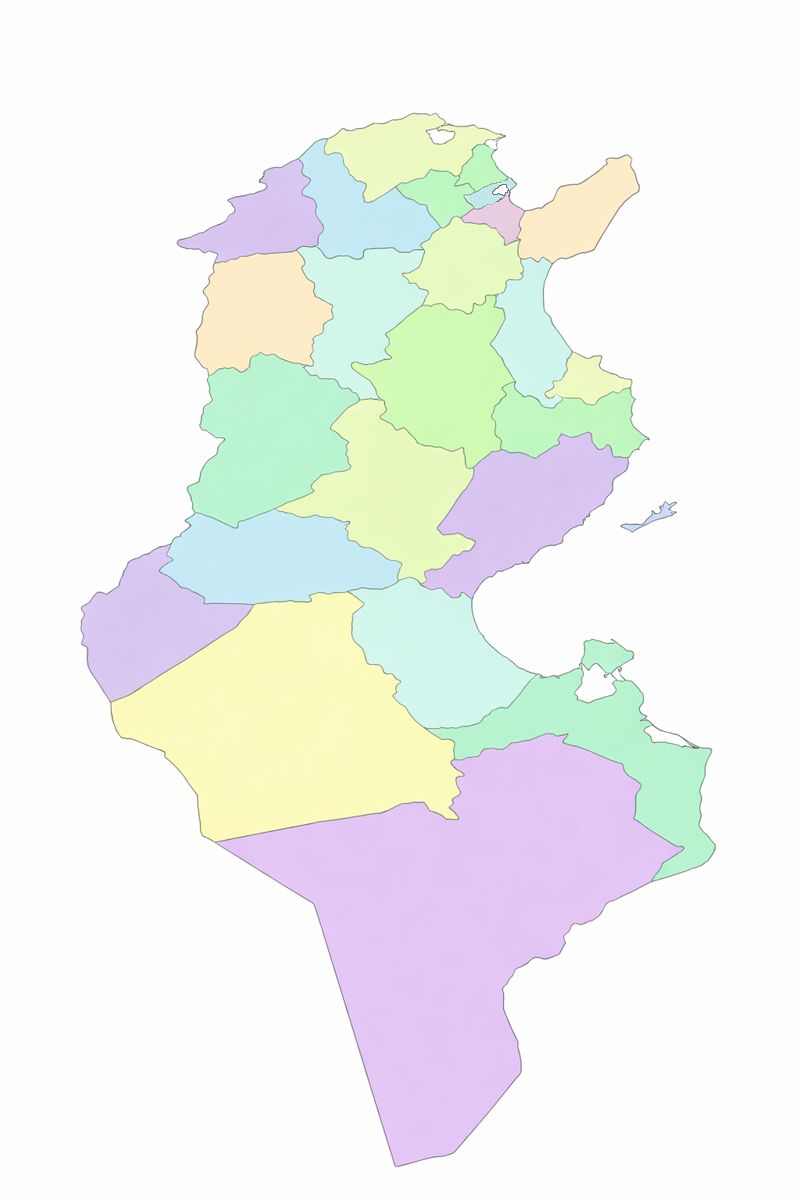
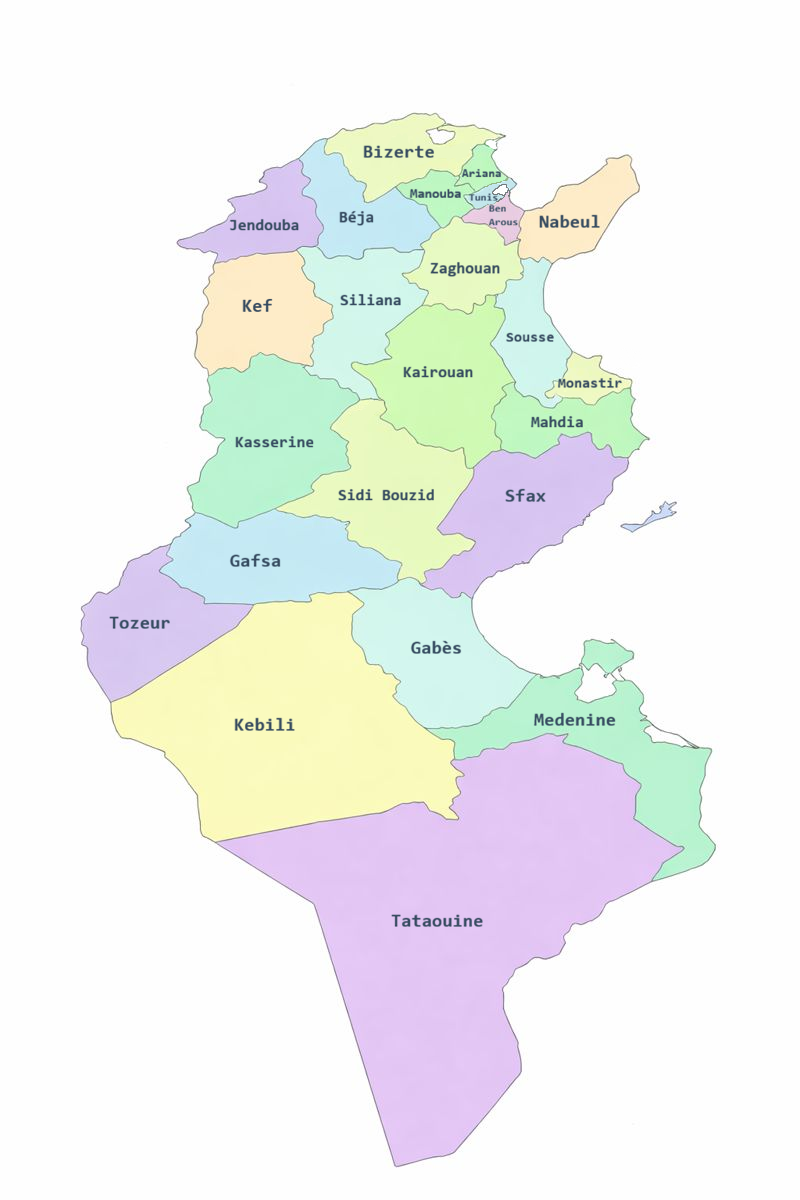
c bon asemi l wileyet

diff --git a/index.html b/index.html
@@ -27,51 +27,51 @@
 
 <!-- 🔴 MAP MUST STAY OUTSIDE -->
 <map name="image-map">
-    <area shape="poly" coords="297,157,308,180,308,197,320,229,312,242,291,249,263,251,213,260,180,244,232,214,227,200,263,190,264,171" href="jendouba.html" alt="Jendouba" title="Jendouba" data-name="Jendouba">
+    <area shape="poly" coords="297,157,308,180,308,197,320,229,312,242,291,249,263,251,213,260,180,244,232,214,227,200,263,190,264,171" href="jendouba.html" alt="Jendouba"  >
 
-    <area shape="poly" coords="433,117,412,113,328,138,350,170,368,199,430,169,457,173,475,146,500,134" href="bizerte.html" alt="Bizerte" title="Bizerte" data-name="Bizerte">
+    <area shape="poly" coords="433,117,412,113,328,138,350,170,368,199,430,169,457,173,475,146,500,134" href="bizerte.html" alt="Bizerte" >
 
-    <area shape="poly" coords="325,138,299,156,325,255,379,249,420,248,442,226,396,188,366,201" href="beja.html" alt="Beja" title="Beja" data-name="Beja">
-    <area shape="poly" coords="194,354,208,372,242,372,259,352,304,365,330,307,312,294,302,268,297,251,216,262" href="kef.html" alt="Kef" title="Kef" data-name="Kef">
+    <area shape="poly" coords="325,138,299,156,325,255,379,249,420,248,442,226,396,188,366,201" href="beja.html" alt="Beja" >
+    <area shape="poly" coords="194,354,208,372,242,372,259,352,304,365,330,307,312,294,302,268,297,251,216,262" href="kef.html" alt="Kef" >
 
-    <area shape="poly" coords="323,473,308,495,231,527,181,506,223,438,203,424,211,373,251,367,259,352,302,369,330,378,354,395,333,426,346,445,348,470" href="kasserine.html" alt="Kasserine" title="Kasserine" data-name="Kasserine">
+    <area shape="poly" coords="323,473,308,495,231,527,181,506,223,438,203,424,211,373,251,367,259,352,302,369,330,378,354,395,333,426,346,445,348,470" href="kasserine.html" alt="Kasserine" >
 
-    <area shape="poly" coords="193,514,172,539,160,567,203,602,308,599,396,583,398,560,347,539,348,523,277,510,232,527" href="gafsa.html" alt="Gafsa" title="Gafsa" data-name="Gafsa">
+    <area shape="poly" coords="193,514,172,539,160,567,203,602,308,599,396,583,398,560,347,539,348,523,277,510,232,527" href="gafsa.html" alt="Gafsa" >
 
-    <area shape="poly" coords="113,591,81,606,86,666,114,704,212,642,257,607,207,604,159,569,166,545,127,562" href="tozeur.html" alt="Tozeur" title="Tozeur" data-name="Tozeur">
+    <area shape="poly" coords="113,591,81,606,86,666,114,704,212,642,257,607,207,604,159,569,166,545,127,562" href="tozeur.html" alt="Tozeur" >
 
-    <area shape="poly" coords="109,708,122,736,162,752,198,795,201,836,219,843,416,799,450,819,453,743,402,710,392,680,349,637,354,594,262,606" href="kebili.html" alt="Kebili" title="Kebili" data-name="Kebili">
-    <area shape="poly" coords="548,735,622,762,635,784,634,815,679,851,649,882,591,919,554,956,503,978,507,1012,525,1075,452,1154,395,1166,312,903,217,843,415,803,455,817,454,789,454,761" href="tataouine.html" alt="Tataouine" title="Tataouine" data-name="Tataouine">
+    <area shape="poly" coords="109,708,122,736,162,752,198,795,201,836,219,843,416,799,450,819,453,743,402,710,392,680,349,637,354,594,262,606" href="kebili.html" alt="Kebili" >
+    <area shape="poly" coords="548,735,622,762,635,784,634,815,679,851,649,882,591,919,554,956,503,978,507,1012,525,1075,452,1154,395,1166,312,903,217,843,415,803,455,817,454,789,454,761" href="tataouine.html" alt="Tataouine" >
 
-    <area shape="poly" coords="709,748,643,693,627,677,631,655,614,640,585,642,565,675,533,678,492,715,435,731,455,761,561,738,620,763,639,784,634,814,681,851,650,883,698,868,717,849,700,826" href="medenine.html" alt="Medenine" title="Medenine" data-name="Medenine">
+    <area shape="poly" coords="709,748,643,693,627,677,631,655,614,640,585,642,565,675,533,678,492,715,435,731,455,761,561,738,620,763,639,784,634,814,681,851,650,883,698,868,717,849,700,826" href="medenine.html" alt="Medenine" >
 
-    <area shape="poly" coords="535,676,492,714,432,729,406,710,389,676,349,636,353,608,355,593,412,577,442,594,470,597,489,645" href="gabes.html" alt="Gabès" title="Gabès" data-name="Gabes">
+    <area shape="poly" coords="535,676,492,714,432,729,406,710,389,676,349,636,353,608,355,593,412,577,442,594,470,597,489,645" href="gabes.html" alt="Gabès" >
 
-    <area shape="poly" coords="588,523,464,598,416,582,473,542,437,531,473,469,494,449,536,458,564,436,585,434,608,449,629,462,627,472,605,499,689,505,634,530" href="sfax.html" alt="Sfax" title="Sfax" data-name="Sfax" >
+    <area shape="poly" coords="588,523,464,598,416,582,473,542,437,531,473,469,494,449,536,458,564,436,585,434,608,449,629,462,627,472,605,499,689,505,634,530" href="sfax.html" alt="Sfax"  >
 
-    <area shape="poly" coords="624,460,647,440,635,421,633,387,591,401,563,397,549,409,507,381,491,415,500,451,536,458,561,436,587,434" href="mahdia.html" alt="Mahdia" title="Mahdia" data-name="Mahdia">
+    <area shape="poly" coords="624,460,647,440,635,421,633,387,591,401,563,397,549,409,507,381,491,415,500,451,536,458,561,436,587,434" href="mahdia.html" alt="Mahdia" >
 
-    <area shape="poly" coords="634,386,607,371,602,357,572,352,545,395,589,403" href="monastir.html" alt="Monastir" title="Monastir" data-name="Monastir">
+    <area shape="poly" coords="634,386,607,371,602,357,572,352,545,395,589,403" href="monastir.html" alt="Monastir" >
 
-    <area shape="poly" coords="562,401,546,392,572,352,543,307,545,280,552,262,520,256,523,276,510,279,494,305,509,318,491,341,516,386,550,409" href="sousse.html" alt="Sousse" title="Sousse"  data-name="Sousse">
+    <area shape="poly" coords="562,401,546,392,572,352,543,307,545,280,552,262,520,256,523,276,510,279,494,305,509,318,491,341,516,386,550,409" href="sousse.html" alt="Sousse" >
 
-    <area shape="poly" coords="461,451,419,445,380,419,382,399,359,400,337,420,349,467,275,509,346,522,349,540,399,563,395,581,420,579,471,543,438,531,472,476" href="sidibouzid.html" alt="Sidi Bouzid" title="Sidi Bouzid" data-name="Sidibouzid">
+    <area shape="poly" coords="461,451,419,445,380,419,382,399,359,400,337,420,349,467,275,509,346,522,349,540,399,563,395,581,420,579,471,543,438,531,472,476" href="sidibouzid.html" alt="Sidi Bouzid" >
 
-    <area shape="poly" coords="471,472,498,449,491,414,513,379,491,341,509,320,492,294,468,313,424,302,385,333,388,361,353,367,380,392,383,419,421,443,463,449" href="kairouan.html" alt="Kairouan" title="Kairouan"    data-name="Kairouan">
+    <area shape="poly" coords="471,472,498,449,491,414,513,379,491,341,509,320,492,294,468,313,424,302,385,333,388,361,353,367,380,392,383,419,421,443,463,449" href="kairouan.html" alt="Kairouan" >
 
-    <area shape="poly" coords="360,399,379,397,356,365,387,358,385,332,428,297,403,276,425,249,364,249,328,260,317,246,297,252,316,293,331,307,320,337,307,369,331,378" href="siliana.html" alt="Siliana" title="Siliana" data-name="Siliana">
+    <area shape="poly" coords="360,399,379,397,356,365,387,358,385,332,428,297,403,276,425,249,364,249,328,260,317,246,297,252,316,293,331,307,320,337,307,369,331,378" href="siliana.html" alt="Siliana" >
 
-    <area shape="poly" coords="431,303,468,315,491,293,499,293,522,271,519,238,504,243,492,226,459,215,441,226,422,247,418,265,403,275" href="zaghouan.html" alt="Zaghouan" title="Zaghouan" data-name="Zaghouan">
+    <area shape="poly" coords="431,303,468,315,491,293,499,293,522,271,519,238,504,243,492,226,459,215,441,226,422,247,418,265,403,275" href="zaghouan.html" alt="Zaghouan" >
 
-    <area shape="poly" coords="507,192,492,203,461,215,485,223,494,229,504,242,518,239,522,227,523,210" href="benarous.html" alt="Ben Arous" title="Ben Arous" data-name="Benarous">
+    <area shape="poly" coords="507,192,492,203,461,215,485,223,494,229,504,242,518,239,522,227,523,210" href="benarous.html" alt="Ben Arous" >
 
     <area shape="poly" coords="473,209,463,197,509,177,516,183,497,202" href="tunis.html" alt="Tunis" title="Tunis" data-name="Tunis">
 
-    <area shape="poly" coords="474,209,440,223,424,209,407,200,396,187,421,177,431,168,448,173,458,175,454,184,467,184,474,190,461,197" href="manouba.html" alt="Manouba" title="Manouba" data-name="Manouba">
+    <area shape="poly" coords="474,209,440,223,424,209,407,200,396,187,421,177,431,168,448,173,458,175,454,184,467,184,474,190,461,197" href="manouba.html" alt="Manouba" >
 
-    <area shape="poly" coords="500,135,473,149,454,184,467,184,474,194,506,177,489,158" href="ariana.html" alt="Ariana" title="Ariana" data-name="Ariana">
+    <area shape="poly" coords="500,135,473,149,454,184,467,184,474,194,506,177,489,158" href="ariana.html" alt="Ariana" >
 
-    <area shape="poly" coords="524,210,519,239,519,258,552,261,596,251,640,188,629,155,608,160,585,182,562,186,545,205" href="nabeul.html" alt="Nabeul" title="Nabeul" data-name="Nabeul">
+    <area shape="poly" coords="524,210,519,239,519,258,552,261,596,251,640,188,629,155,608,160,585,182,562,186,545,205" href="nabeul.html" alt="Nabeul" >
 
 </map>
 

diff --git a/style.css b/style.css
@@ -6,17 +6,7 @@
     padding: 0;
     box-sizing: border-box;
 }
-#tooltip {
-    position: absolute;
-    background: rgba(0, 0, 0, 0.85);
-    color: white;
-    padding: 6px 10px;
-    border-radius: 5px;
-    font-size: 14px;
-    pointer-events: none;
-    display: none;
-    z-index: 9999;
-}
+
 
 
 /* BODY */
@@ -51,15 +41,7 @@ body {
     animation: luxuryFade 1.4s ease-out;
 }
 
-/* Arabic */
-.fancy-title .arabic {
-    font-family: 'Playfair Display', serif;
-    font-size: 2.8rem;
-    font-weight: 600;
-    letter-spacing: 6px;
-    color: #2d3436;
-    opacity: 0.85;
-}
+
 
 /* Divider */
 .fancy-title .divider {
@@ -101,18 +83,7 @@ body {
     animation: goldShimmer 6s linear infinite;
 }
 
-/* Glow behind title */
-.fancy-title .english::after {
-    content: 'TUNISIA';
-    position: absolute;
-    left: 50%;
-    top: 50%;
-    transform: translate(-50%, -50%);
-    letter-spacing: 14px;
-    color: rgba(245, 211, 122, 0.35);
-    filter: blur(28px);
-    z-index: -1;
-}
+
 
 /* ====== MAP ====== */
 .map-wrapper {
@@ -139,33 +110,7 @@ body {
     transform: scale(1.025);
 }
 
-/* ====== ANIMATIONS ====== */
-@keyframes goldShimmer {
-    0% { background-position: 0%; }
-    100% { background-position: 300%; }
-}
 
-@keyframes luxuryFade {
-    from {
-        opacity: 0;
-        transform: translateY(-40px);
-    }
-    to {
-        opacity: 1;
-        transform: translateY(0);
-    }
-}
-
-@keyframes fadeInUp {
-    from {
-        opacity: 0;
-        transform: translateY(30px);
-    }
-    to {
-        opacity: 1;
-        transform: translateY(0);
-    }
-} 
 
 /* ====== RESPONSIVE ====== */
 @media (max-width: 768px) {
